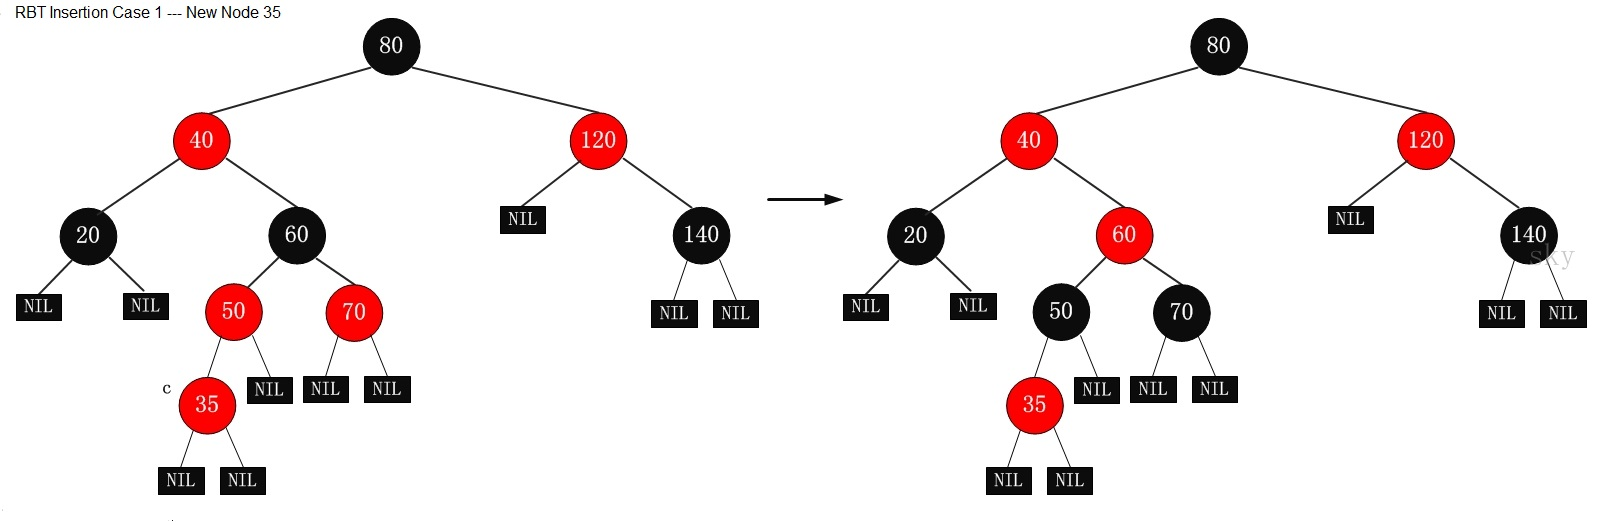
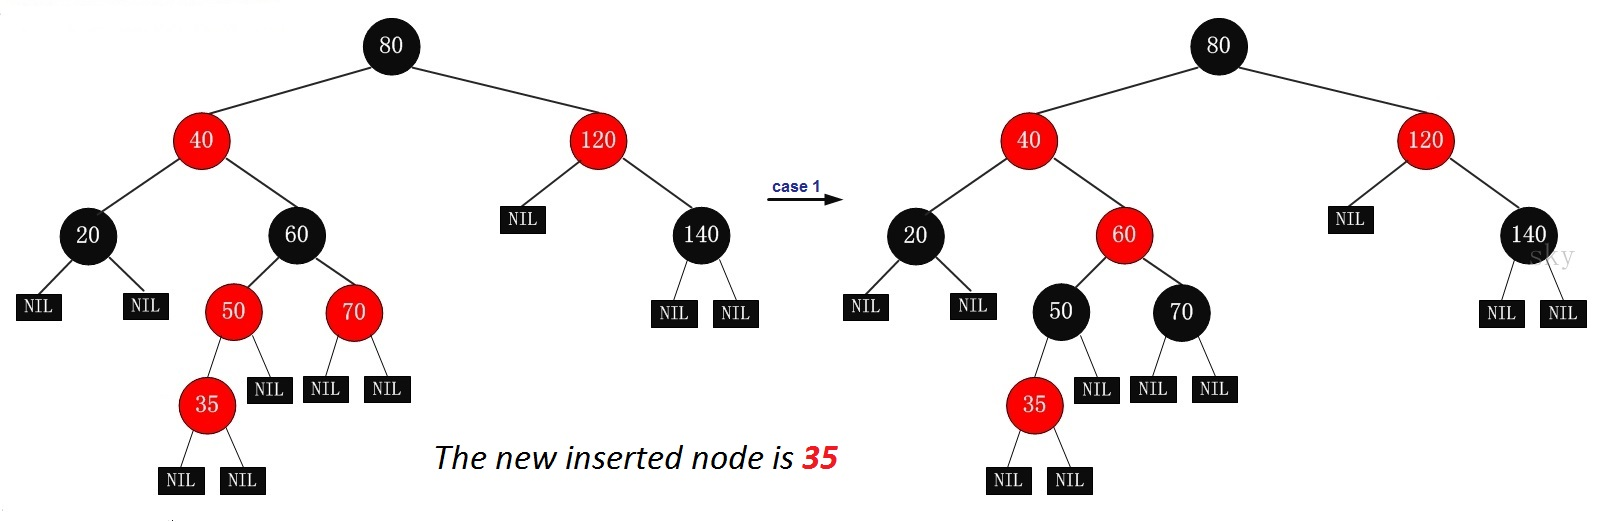
add more details to Red-Black Tree

Changed region(s): [[0.2488, 0.8582, 0.5286, 0.9195], [0.0, 0.0, 0.1866, 0.0307], [0.4664, 0.3372, 0.5286, 0.3678]]

diff --git a/source/_posts/2016-11-16-Red-Black-Tree.md b/source/_posts/2016-11-16-Red-Black-Tree.md
@@ -360,17 +360,17 @@ According to **z**'s **parent**'s state, when we insert **z** into a **Red-Black
 | &nbsp;                                     | &nbsp;---&nbsp; | According to **z**'s uncle's state, we will have another **3 sub-cases** as below: |
 
 
-| **Case** |  &nbsp;                               | &nbsp; |
-| :---     | :---                                                    | :---   |
-| **3.1**: | **z**'s **parent** is **RED**, **z**'s uncle is **RED** | (01) color **z**'s **parent** as **BLACK**                                       |
-| &nbsp;   | &nbsp;                                                  | (02) color **z**'s uncle as **BLACK**                                        |
-| &nbsp;   | &nbsp;                                                  | (03) color **z**'s grampa as **RED**                                         |
-| &nbsp;   | &nbsp;                                                  | (04) point **z** to **z**'s grampa, then keep the processing iteratively |
-| **3.2**: | **z**'s **parent** is **RED**, **z**'s uncle is **BLACK**,      | (01) point **z** to **z**'s **parent**                                       |
-| &nbsp;   | and **z** is the **right child** of **z**'s **parent**  | (02) **LEFT-ROTATE** on **z**                                            |
-| **3.3**: | **z**'s **parent** is **RED**, **z**'s uncle is **BLACK**,      | (01) color **z**'s **parent** as **BLACK**                                       |
-| &nbsp;   | and **z** is the **left child** of **z**'s **parent**   | (02) color **z**'s grampa as **RED**                                         |
-| &nbsp;   | &nbsp;                                                  | (03) **RIGHT-ROTATE** on **z**'s grampa                                  |
+| **Case** |  &nbsp;                                                         | &nbsp; |
+| :---     | :---                                                            | :---   |
+| **3.1**: | **z**'s **parent** is **RED**, **z**'s uncle is **RED**         | (01) color **z**'s **parent** as **BLACK**                               |
+| &nbsp;   | &nbsp;                                                          | (02) color **z**'s uncle as **BLACK**                                    |
+| &nbsp;   | &nbsp;                                                          | (03) color **z**'s grampa as **RED**                                     |
+| &nbsp;   | &nbsp;                                                          | (04) point **z** to **z**'s grampa, then keep the processing iteratively |
+| **3.2**: | **z**'s **parent** is **RED**, **z**'s uncle is **BLACK**,      | (01) point **z** to **z**'s **parent**                                   |
+| &nbsp;   | and **z** is the **right child** of **z**'s **parent**  		 | (02) **LEFT-ROTATE** on **z**                                            |
+| **3.3**: | **z**'s **parent** is **RED**, **z**'s uncle is **BLACK**,      | (01) color **z**'s **parent** as **BLACK**                               |
+| &nbsp;   | and **z** is the **left child** of **z**'s **parent**           | (02) color **z**'s grampa as **RED**                                     |
+| &nbsp;   | &nbsp;                                                          | (03) **RIGHT-ROTATE** on **z**'s grampa                                  |
 
 **_The core idea about the 3 Sub-Cases above is : "Move the RED node to root, then color the root as BLACK"_**
 
@@ -393,8 +393,16 @@ According to **z**'s **parent**'s state, when we insert **z** into a **Red-Black
 
 {% asset_img rbt_insertion_case_1.jpg "Red-Black Tree Intertion Case 1" " " %} 
 
+-----------------------------------------------------------------------------------------------------------------------------------------------------
+
+{% asset_img rbt_insertion_case_1_full.jpg "Red-Black Tree Intertion Case 1 another example" " " %} 
+
 
 -----------------------------------------------------------------------------------------------------------------------------------------------------
+
+| **Why** |  &nbsp;                                |
+| :---    | :---                                   |
+| **3.2** | **z** and **z**'s **parent** are **RED**, it breaks [property](#Properties) #4, so color **z**'s **parent** as **BLACK** to resolve this problem. |
 
 # References #
 http://www.cs.virginia.edu/~luebke/cs332.fall00/lecture10/index.htm
